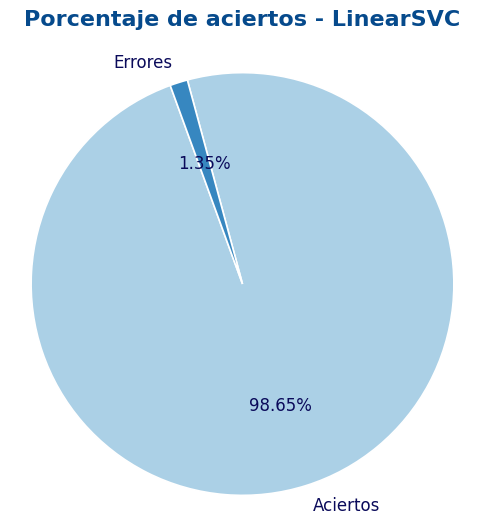
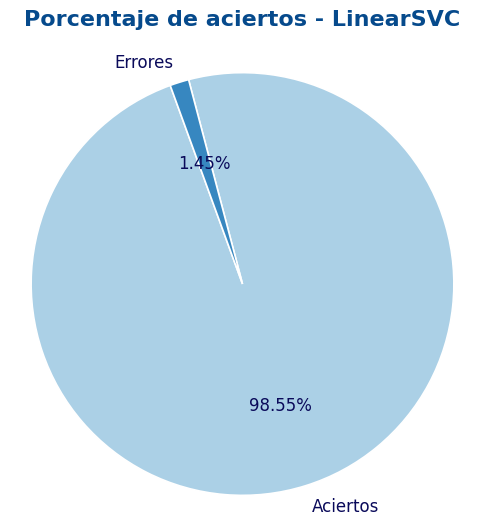
Update Readme

diff --git a/README.md b/README.md
@@ -38,7 +38,7 @@ El target que se predece es `is_spam`, es decir, si un correo es `spam = 1` o `h
 
 ## Modelo de machine learning
 
-Después de evaluar todos los modelos, el que tuvo mejores resultados fue el `LinearSVC` con una precisión del **98.65%**, también muy cerca tenemos al `Logistic Regression`, ambos tienen mejores resultado que el resto de algoritmos.
+Después de evaluar todos los modelos, el que tuvo mejores resultados fue el `LinearSVC` con una precisión del **98.55%**, también muy cerca tenemos al `Logistic Regression`, ambos tienen mejores resultado que el resto de algoritmos.
 
 ![linear_svc](/img/linear_svc.png) 
 
